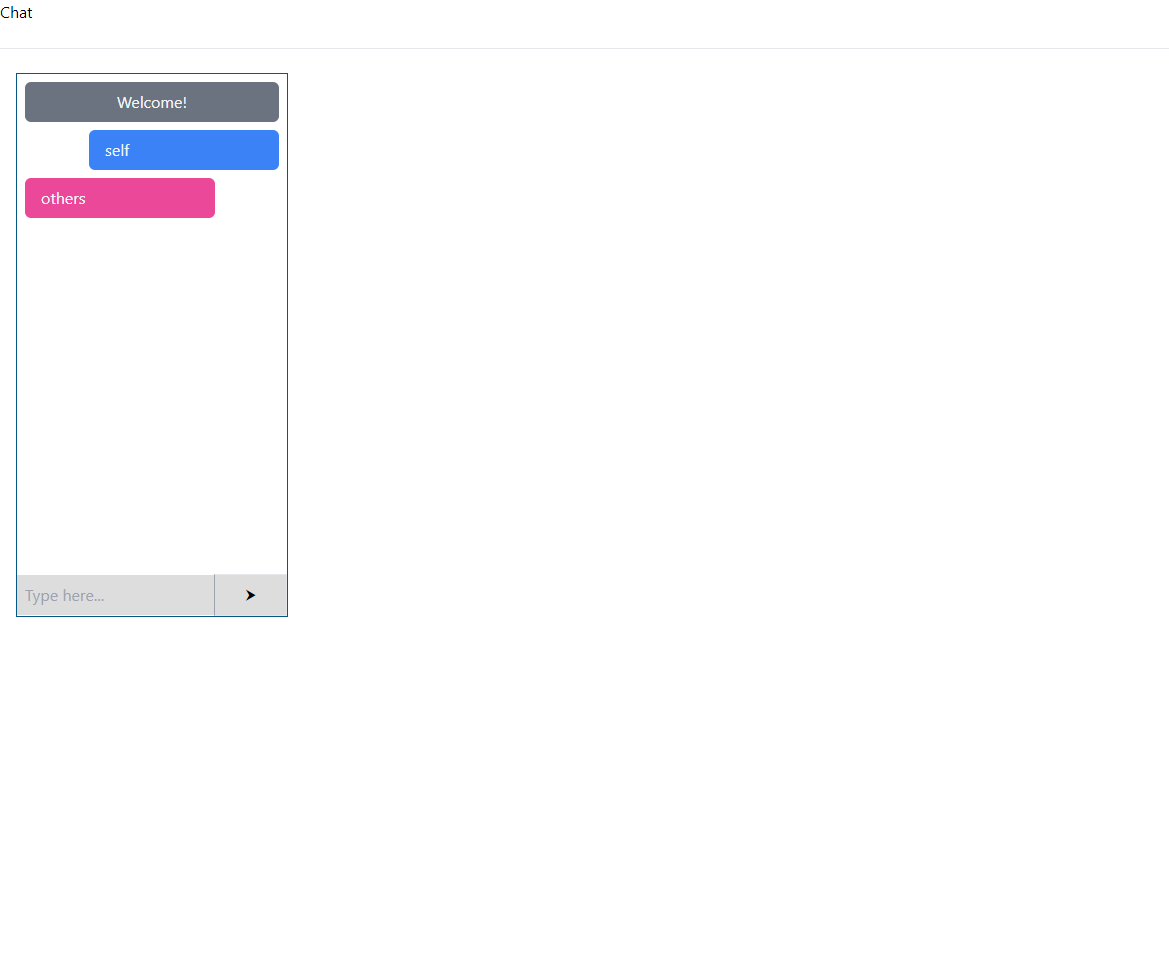
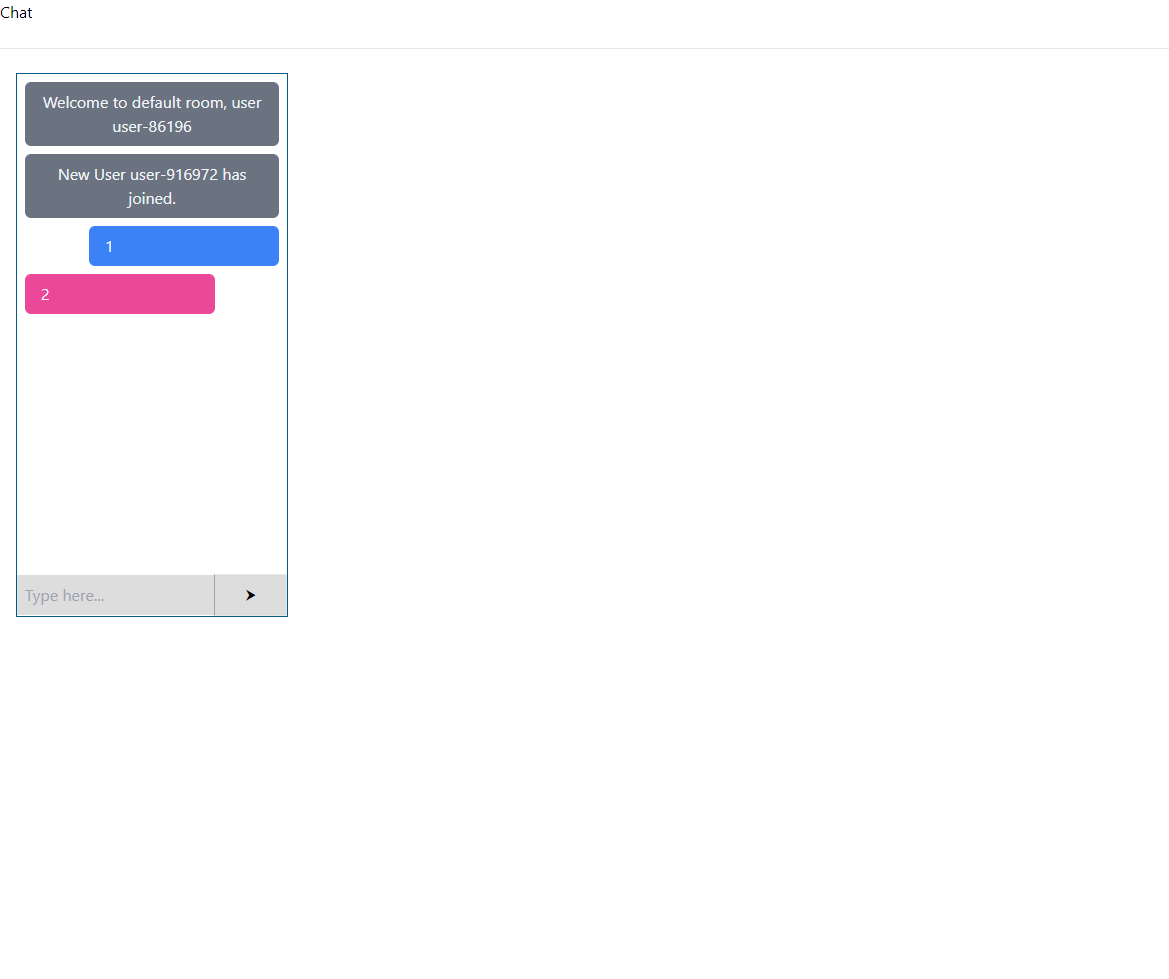
fix: added disconnect event; misc changes

Changed region(s): [[0.0, 0.0919, 0.2464, 0.3371]]

diff --git a/server/index.ts b/server/index.ts
@@ -15,7 +15,7 @@ import { Server } from 'socket.io';
 import express from 'express';
 import http from 'http';
 import indexRouter from './routes/indexRoutes';
-import { addUser } from './helpers/users';
+import { addUser, removeUser } from './helpers/users';
 // import { socketEventsDict } from './helpers/socketEvents';
 import { consoleLine, uuid } from './helpers/misc';
 import { ESocketEventsDict, IUser, IServerMessageData } from './assets/types/global';
@@ -100,7 +100,9 @@ io.on(ESocketEventsDict['connection'], (socket) => {
       try {
 
         // io.to(user.room).emit
-        socket.broadcast.emit(
+        socket.broadcast
+        // .to(user.room)
+        .emit(
           ESocketEventsDict['serverMessage'],
           serverMessageData
         );
@@ -115,6 +117,17 @@ io.on(ESocketEventsDict['connection'], (socket) => {
 
 
     }
+  );
+
+  // COMMT: Disconnect user on leaving / refreshing
+  socket.on(
+    ESocketEventsDict['disconnect'],
+    (user:IUser ) => {
+      socket
+        .to(user?.room)
+        .emit(`User ${user?.name} has left`)
+    },
+    removeUser(socket.id)
   );
 
 });

diff --git a/client/src/pages/Chat/Chat.tsx b/client/src/pages/Chat/Chat.tsx
@@ -29,7 +29,7 @@ const Chat: FC<IChatProps> = (props) => {
 
   const [ messageList, setMessageList ] = useState<IClientMessageData[]>([]);
   const [ onNewMessage, setOnNewMessage ] = useState(0);
-  const name = 'doe';
+  const name = `user-${uuid()}`;
   const room = 'default';
   const users = [];
 
@@ -39,13 +39,14 @@ const Chat: FC<IChatProps> = (props) => {
       ESocketEventsDict['joinRoom'],
       {name, room},
       (err: string|null) => {
-        if (err) console.error(err)
+        if (err) console.error('Error: ',err)
       }
     );
 
     return () => {
+      // handleJoinRoom()
       // // @ts-expect-error: useEffect return type clashes with socket type
-      // props.socket?.off(ESocketEventsDict['joinRoom'], handleJoinRoom());
+      props.socket?.off(ESocketEventsDict['joinRoom']);
 
     };
 
@@ -134,7 +135,7 @@ const Chat: FC<IChatProps> = (props) => {
         ESocketEventsDict['clientMessage'],
         newMessageData,
         (err:string|null) => {
-          if (err) console.error('Error :>> ', err)
+          if (err) console.error('Error: ', err)
         }
       )
     };

diff --git a/server/helpers/users.ts b/server/helpers/users.ts
@@ -20,4 +20,9 @@ export const addUser = ({ id, name, room }: IUser) => {
   return { user }
 };
 
-module.exports = { addUser };
+export const removeUser = (socketId:string) => {
+  const idx = users.findIndex(currUser => currUser.id === socketId);
+  if (idx !== -1) return users.splice(idx, 1)?.[0];
+};
+
+module.exports = { addUser, removeUser };
